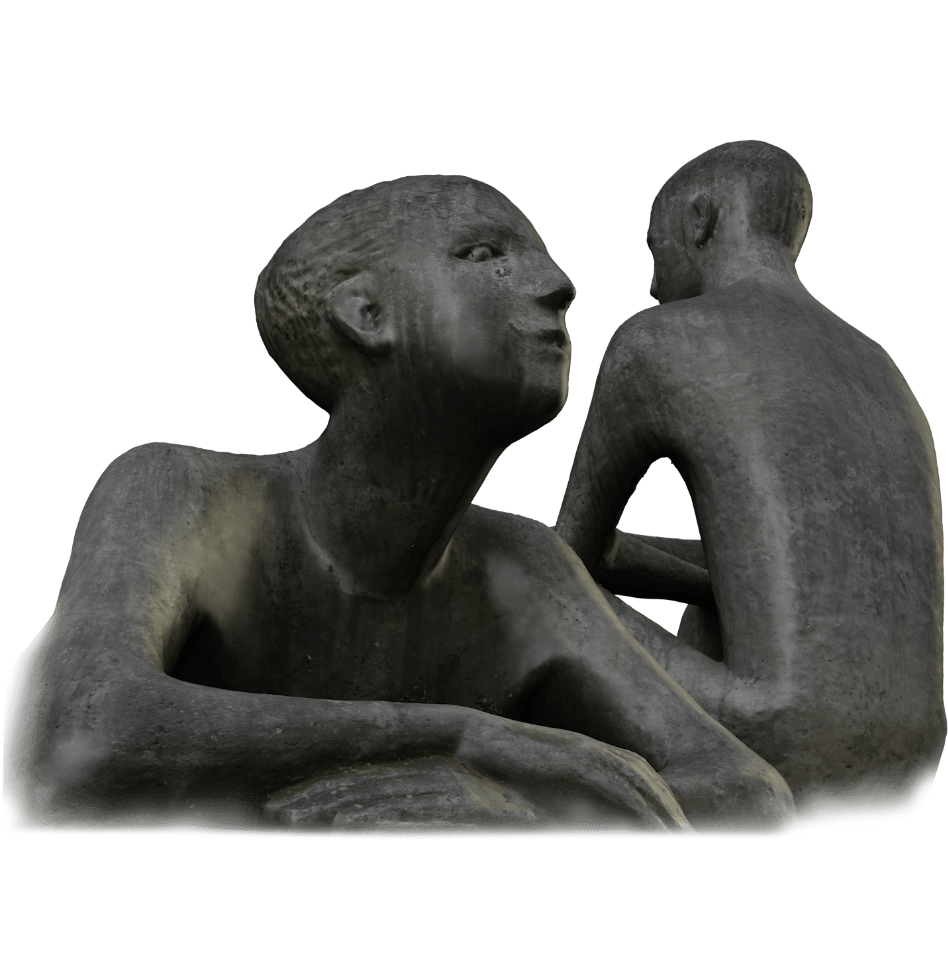
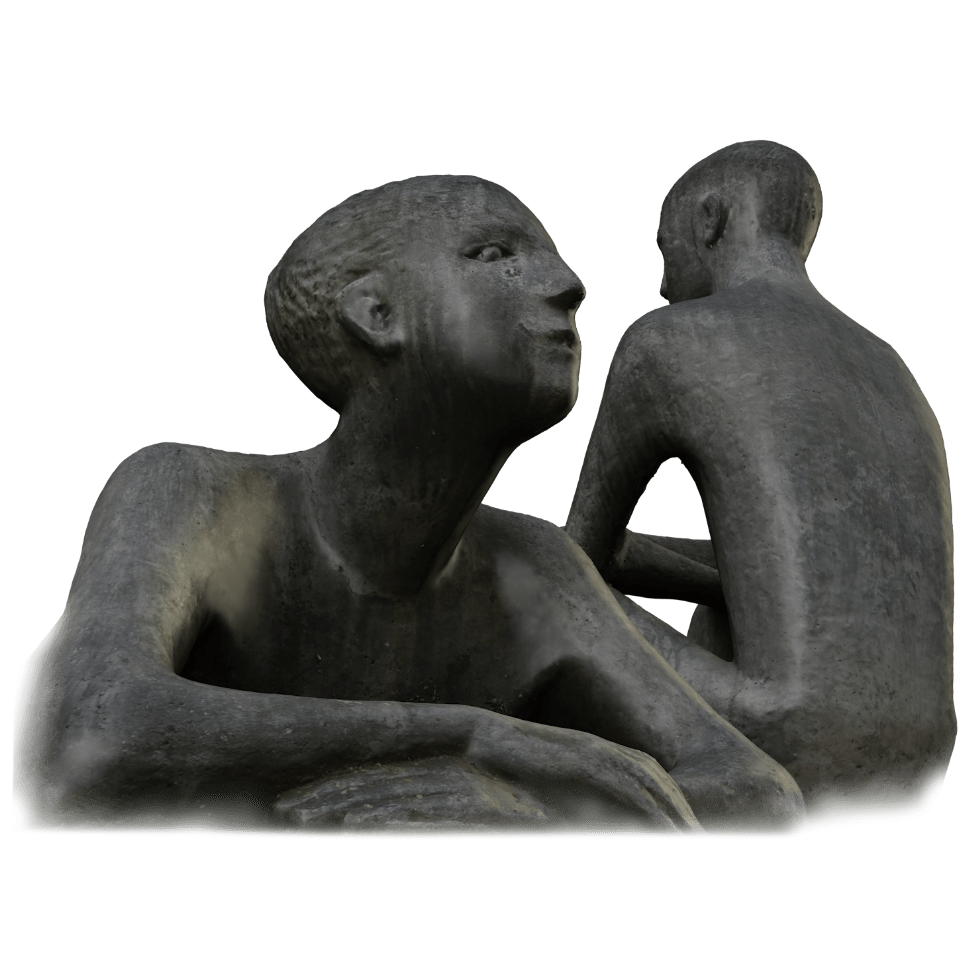
finished about page background sectioin

diff --git a/src/Pages/AboutPage.tsx b/src/Pages/AboutPage.tsx
@@ -1,7 +1,7 @@
 import React from "react";
 import useAboutPage from "../Hooks/useAboutPage";
 
-import CreditsPageBackground from "../Components/CustomBackgrounds/CredistPageBackground";
+import AboutPageBackground from "../Components/CustomBackgrounds/AboutPageBackground";
 import BrandLogo from "../assets/brand-logo.png";
 import Navbar from "../Components/Navbar/Navbar";
 
@@ -10,13 +10,19 @@ const AboutPage: React.FC = () => {
 
   return (
     <div className="about-page">
-      <CreditsPageBackground />
+      <AboutPageBackground />
 
       <a href="/" className="brand-logo _position-absolute">
         <img src={BrandLogo} alt="wiki olympus logo" />
       </a>
 
       <Navbar links={navbarLinks} />
+
+      <div className="page-container">
+        <div className="left-side">
+          <h1 className="main-title">about us</h1>
+        </div>
+      </div>
     </div>
   );
 };

diff --git a/src/Components/CustomBackgrounds/_custom-backgrounds.scss b/src/Components/CustomBackgrounds/_custom-backgrounds.scss
@@ -122,12 +122,47 @@
         height: 100%;
         width: auto;
       }
+    }
 
+    .layer-image {
       &.active {
         opacity: 1;
         visibility: visible;
         transform: translateY(0);
         transition: 1.1s ease-in-out;
+      }
+    }
+  }
+
+  .about-image-container {
+    position: absolute;
+    bottom: 0;
+    right: 0;
+    width: 100%;
+    padding: 0 30px;
+
+    @include sm-size {
+      right: 30px;
+      width: auto;
+      height: 100%;
+      padding: 120px 0;
+    }
+
+    @include lg-size {
+      right: 70px;
+      padding: 50px 0;
+    }
+
+    @include xl-size {
+      right: 130px;
+    }
+
+    .about-image {
+      width: 100%;
+
+      @include sm-size {
+        width: auto;
+        height: 100%;
       }
     }
   }

diff --git a/src/Components/CustomBackgrounds/AboutPageBackground.tsx b/src/Components/CustomBackgrounds/AboutPageBackground.tsx
@@ -1,0 +1,14 @@
+import React from "react";
+import AboutImage from "../../assets/about-page.png";
+
+const AboutPageBackground: React.FC = () => {
+  return (
+    <div className="custom-backgrounds index-page-background">
+      <div className="about-image-container">
+        <img src={AboutImage} alt="about" className="about-image" />
+      </div>
+    </div>
+  );
+};
+
+export default AboutPageBackground;

diff --git a/src/Pages/_about-page.scss b/src/Pages/_about-page.scss
@@ -36,4 +36,22 @@
       }
     }
   }
+
+  .page-container {
+    display: flex;
+    flex-direction: column;
+    padding: 0 30px;
+    z-index: 0;
+
+    .main-title {
+      margin: 0 0 35px;
+      background: $h1_gradient_color;
+      -webkit-background-clip: text;
+      -webkit-text-fill-color: transparent;
+
+      @include lg-size {
+        margin: 0 0 45px;
+      }
+    }
+  }
 }
